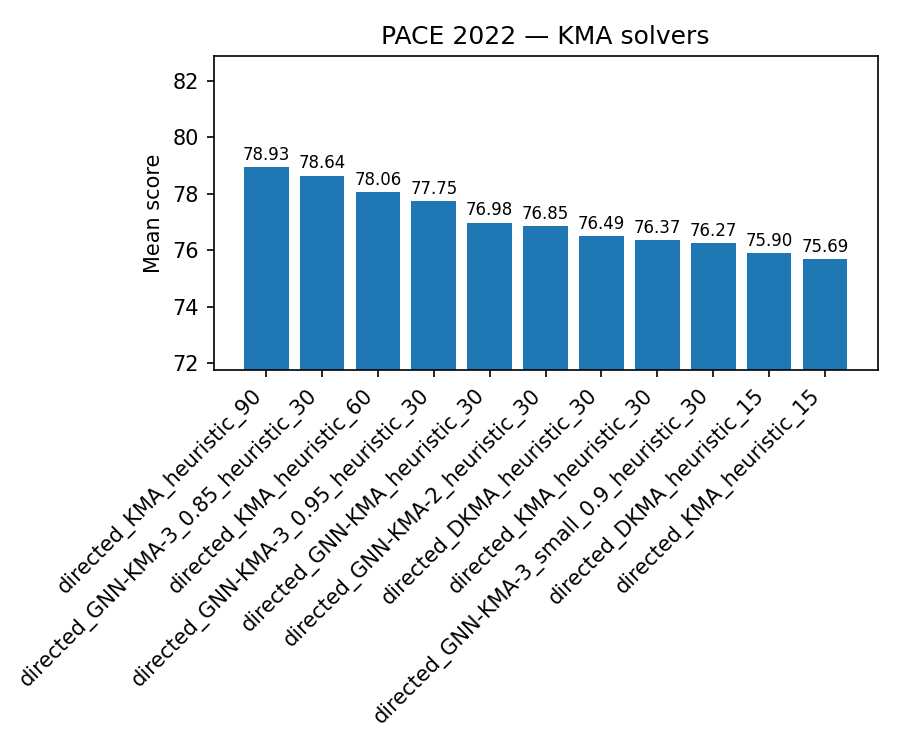
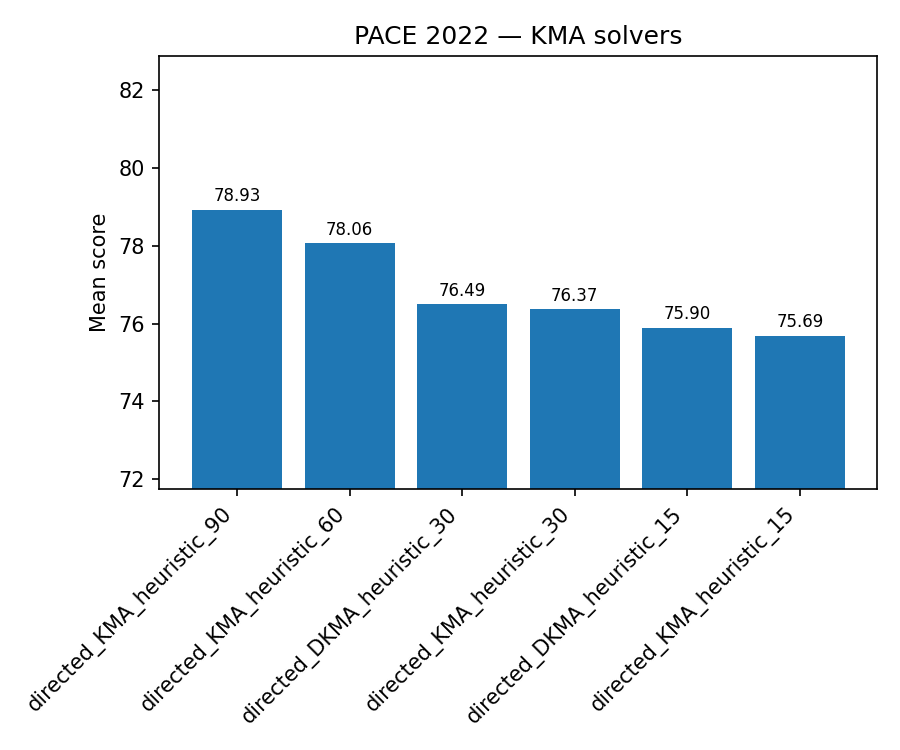
added fixes

diff --git a/paceresults/plot_pace_results.py b/paceresults/plot_pace_results.py
@@ -105,7 +105,15 @@ def main():
             # require token to appear at least twice to be considered a group
             if token_counts.get(tok, 0) < 2:
                 continue
-            mask = [tok.lower() in " ".join(ts).lower() for ts in name_tokens]
+            def token_matches(tokens: list[str]) -> bool:
+                text = " ".join(tokens).lower()
+                if tok.upper() == "KMA" and "gnn" in text:
+                    return False
+                if tok.upper() == "MA" and ("gnn" in text or "kma" in text):
+                    return False
+                return tok.lower() in text
+
+            mask = [token_matches(ts) for ts in name_tokens]
             if any(mask):
                 groups[tok] = mask
         return groups

diff --git a/operations_guide.md b/operations_guide.md
@@ -1,7 +1,7 @@
-# Complete Operations Guide — FVS Research Project
+# Complete Operations Guide — Feedback_Vertex_Set_Problem_Algorithm_Project_4-2
 
 > Every command you will ever need, in one place.  
-> All commands are run from the **project root** (`FVS_Research_Project/`).
+> All commands are run from the **project root** (`Feedback_Vertex_Set_Problem_Algorithm_Project_4-2/`).
 
 ---
 
@@ -871,4 +871,4 @@ python experiments/run_hybrid.py --graph data/raw_directed/sample_pace.gr       
 
 ---
 
-*Group 06 — FVS Research Project*
+*Group 06 — Feedback_Vertex_Set_Problem_Algorithm_Project_4-2*

diff --git a/README.md b/README.md
@@ -1,4 +1,4 @@
-# Feedback Vertex Set Project
+# Feedback_Vertex_Set_Problem_Algorithm_Project_4-2
 
 Comprehensive framework for solving and studying Feedback Vertex Set (FVS) and Directed FVS (DFVS), with exact algorithms, scalable heuristics, and GNN-guided hybrid solvers.
 
